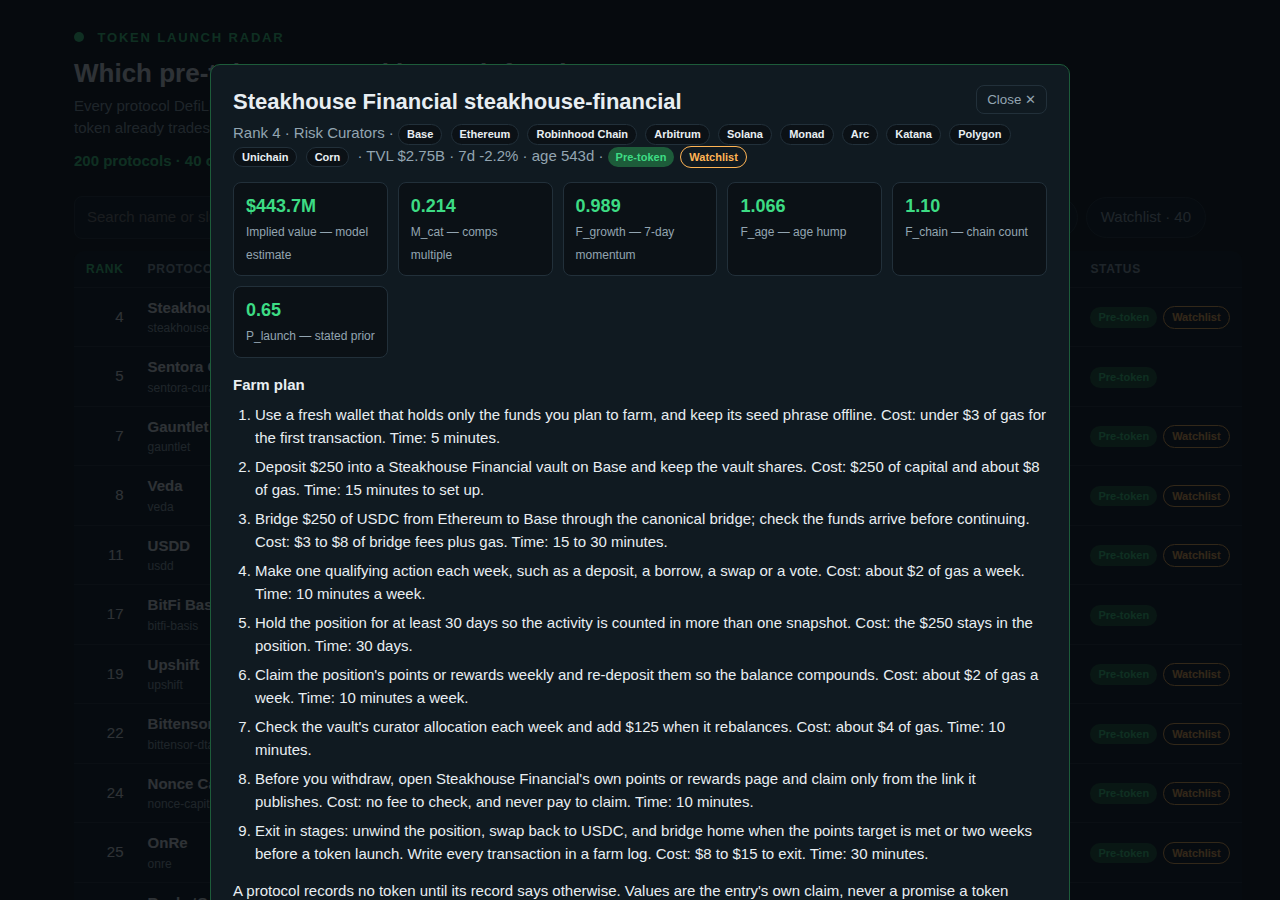
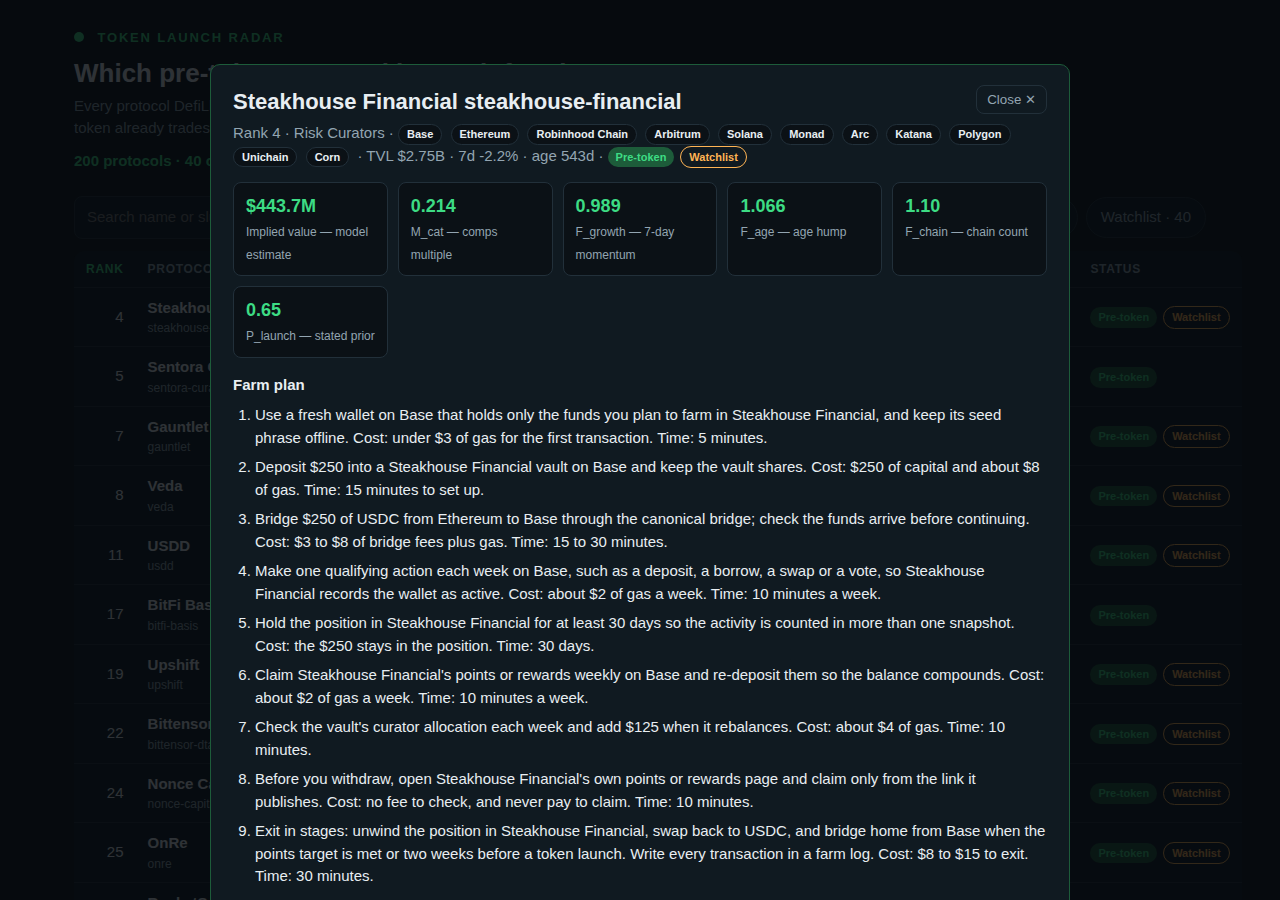
Round 4: second chart (TVL-vs-value scatter), source from snapshot, varied farm plans
- dashboard: add TVL-vs-implied-value scatter (log scales, status colors)
  as a second chart below the comps chart; x labels centered, wider right
  margin so the last tick is not clipped.
- model/main: radar.source now reads snapshot.source (with 'DefiLlama'
  fallback) instead of a hardcoded 'DefiLlama'.
- model farmSteps: steps 1/4/5/8/9 now name the protocol and its first
  chain, so plans no longer read as identical boilerplate.
- screenshots: 2-detail re-taken (farm plan text changed); 1-board and
  3-filtered byte-identical to round 3 (board values unchanged).
- Verified: Node 22.18 + nobody exit 0; board 200 rows strictly
  decreasing, 40/40 watchlist, rank 200 $2,265,404 (unchanged);
  determinism byte-identical across 2 runs; dossier 838,053 B < 4 MiB.

Changed region(s): [[0.1875, 0.6222, 0.8125, 0.8089], [0.1875, 0.9022, 0.8125, 0.9956], [0.1875, 0.4356, 0.8125, 0.4978]]

diff --git a/dashboard/app.js b/dashboard/app.js
@@ -219,6 +219,44 @@ function renderChart() {
     `<svg viewBox="0 0 ${W} ${H}" width="100%" role="img" aria-label="Comps multiple by category">${bars}</svg>`;
 }
 
+/** The TVL-versus-value scatter: one dot per board row, log scales on both axes,
+ * coloured by status. The judge sees at a glance that pre-token value tracks TVL
+ * through the comps multiple, and that trading anchors sit on their observed caps.
+ * Inline SVG, no network, deterministic. */
+function renderScatter() {
+  const el = $('scatter');
+  if (!el) return;
+  const rows = BOARD.filter((r) => Number.isFinite(r.tvl_usd) && r.tvl_usd > 0 &&
+    Number.isFinite(r.implied_value_usd) && r.implied_value_usd > 0);
+  if (!rows.length) { el.innerHTML = '<p class="fine">No scatter data.</p>'; return; }
+  const W = 760, H = 420, ML = 70, MR = 48, MT = 14, MB = 44;
+  const lx = rows.map((r) => Math.log10(r.tvl_usd));
+  const ly = rows.map((r) => Math.log10(r.implied_value_usd));
+  const x0 = Math.floor(Math.min(...lx)), x1 = Math.ceil(Math.max(...lx));
+  const y0 = Math.floor(Math.min(...ly)), y1 = Math.ceil(Math.max(...ly));
+  const X = (v) => ML + ((v - x0) / (x1 - x0)) * (W - ML - MR);
+  const Y = (v) => MT + (1 - (v - y0) / (y1 - y0)) * (H - MT - MB);
+  const col = (r) => r.status === 'pre-token' ? '#2563eb' : r.status === 'trading' ? '#16a34a' : '#dc2626';
+  const fmt = (v) => v >= 9 ? '$' + (Math.pow(10, v) / 1e9).toFixed(0) + 'B' : '$' + (Math.pow(10, v) / 1e6).toFixed(0) + 'M';
+  let grid = '';
+  for (let g = x0; g <= x1; g++) {
+    grid += `<line x1="${X(g)}" y1="${MT}" x2="${X(g)}" y2="${H - MB}" class="sgrid"/>` +
+      `<text x="${X(g)}" y="${H - MB + 18}" class="saxis" text-anchor="middle">${fmt(g)}</text>`;
+  }
+  for (let g = y0; g <= y1; g++) {
+    grid += `<line x1="${ML}" y1="${Y(g)}" x2="${W - MR}" y2="${Y(g)}" class="sgrid"/>` +
+      `<text x="${ML - 8}" y="${Y(g) + 4}" class="saxis" text-anchor="end">${fmt(g)}</text>`;
+  }
+  const dots = rows.map((r) =>
+    `<circle cx="${X(Math.log10(r.tvl_usd)).toFixed(1)}" cy="${Y(Math.log10(r.implied_value_usd)).toFixed(1)}" r="3.5" fill="${col(r)}" opacity="0.75"><title>${esc(r.name)} — TVL $${Math.round(r.tvl_usd).toLocaleString('en-US')}, value $${Math.round(r.implied_value_usd).toLocaleString('en-US')}</title></circle>`).join('');
+  el.innerHTML = `<h2>TVL versus implied value</h2>` +
+    `<p class="fine">Each dot is one board row (log scales). Blue = pre-token, green = trading anchor, red = anomaly. Value tracks TVL through the comps multiple; trading rows sit on their observed market cap.</p>` +
+    `<svg viewBox="0 0 ${W} ${H}" width="100%" role="img" aria-label="TVL versus implied value scatter">${grid}${dots}` +
+    `<text x="${(ML + W - MR) / 2}" y="${H - 8}" class="saxis" text-anchor="middle">TVL (log)</text>` +
+    `<text x="14" y="${(MT + H - MB) / 2}" class="saxis" text-anchor="middle" transform="rotate(-90 14 ${(MT + H - MB) / 2})">Implied value (log)</text></svg>` +
+    `<p class="fine"><span style="color:#2563eb">●</span> pre-token &nbsp; <span style="color:#16a34a">●</span> trading &nbsp; <span style="color:#dc2626">●</span> anomaly</p>`;
+}
+
 function init() {
   if (!BOARD.length) {
     statsEl.textContent = 'No board data embedded.';
@@ -230,6 +268,7 @@ function init() {
   statsEl.textContent = BOARD.length + ' protocols · ' + (META ? META.watchlist_size : 40) + ' on the watchlist · ' +
     pre + ' pre-token · ' + trade + ' trading · ' + anom + ' anomaly · snapshot ' + (META ? META.as_of : '2026-11-14') + ' · model ' + (META ? META.model_version : 'radar-v2-comps');
   renderChart();
+  renderScatter();
   const cats = [...new Set(BOARD.map((r) => r.category).filter(Boolean))].sort();
   cats.forEach((c) => catEl.add(new Option(c, c)));
   const chains = [...new Set(BOARD.flatMap((r) => r.chains.split(',')))].sort();

diff --git a/lib/model.ts b/lib/model.ts
@@ -514,13 +514,14 @@ export function stepText(step: FarmStep): string {
  */
 export function farmSteps(p: SnapshotProtocol, age: number | null): FarmStep[] {
   const chain = chainOf(p);
+  const name = p.name;
   const capital = capitalFor(p);
   const hold = holdDaysFor(age);
   const action = mainAction(p, capital, chain);
   const gas = capital >= 250 ? 8 : capital >= 100 ? 5 : 3;
   const steps: FarmStep[] = [
     {
-      text: `Use a fresh wallet that holds only the funds you plan to farm, and keep its seed phrase offline.`,
+      text: `Use a fresh wallet on ${chain} that holds only the funds you plan to farm in ${name}, and keep its seed phrase offline.`,
       cost: 'under $3 of gas for the first transaction',
       time: '5 minutes',
     },
@@ -537,19 +538,19 @@ export function farmSteps(p: SnapshotProtocol, age: number | null): FarmStep[] {
   }
   steps.push(
     {
-      text: `Make one qualifying action each week, such as a deposit, a borrow, a swap or a vote.`,
+      text: `Make one qualifying action each week on ${chain}, such as a deposit, a borrow, a swap or a vote, so ${name} records the wallet as active.`,
       cost: 'about $2 of gas a week',
       time: '10 minutes a week',
     },
     {
-      text: `Hold the position for at least ${hold} days so the activity is counted in more than one snapshot.`,
+      text: `Hold the position in ${name} for at least ${hold} days so the activity is counted in more than one snapshot.`,
       cost: `the $${capital} stays in the position`,
       time: `${hold} days`,
     },
   );
   if (p.tvl_usd >= 100_000_000) {
     steps.push({
-      text: `Claim the position's points or rewards weekly and re-deposit them so the balance compounds.`,
+      text: `Claim ${name}'s points or rewards weekly on ${chain} and re-deposit them so the balance compounds.`,
       cost: 'about $2 of gas a week',
       time: '10 minutes a week',
     });
@@ -564,7 +565,7 @@ export function farmSteps(p: SnapshotProtocol, age: number | null): FarmStep[] {
       time: '10 minutes',
     },
     {
-      text: `Exit in stages: unwind the position, swap back to USDC, and bridge home when the points target is met or two weeks before a token launch. Write every transaction in a farm log.`,
+      text: `Exit in stages: unwind the position in ${name}, swap back to USDC, and bridge home from ${chain} when the points target is met or two weeks before a token launch. Write every transaction in a farm log.`,
       cost: '$8 to $15 to exit',
       time: '30 minutes',
     },
@@ -724,7 +725,7 @@ export function buildRadar(snapshot: Snapshot): { board: BoardRow[]; radar: Rada
 
   const radar: RadarData = {
     as_of: snapshot.as_of,
-    source: 'DefiLlama',
+    source: snapshot.source || 'DefiLlama',
     floor_usd: snapshot.floor_usd,
     model_version: MODEL_VERSION,
     ref_date: snapshot.as_of,

diff --git a/dashboard/app.css b/dashboard/app.css
@@ -76,6 +76,8 @@ td .slug { color: var(--muted); font-size: 12px; display: block; }
 .chart .clabel { fill: var(--ink); font-size: 12px; }
 .chart .cval { fill: var(--muted); font-size: 12px; }
 .chart .cbar { fill: var(--accent); opacity: .85; }
+.chart .sgrid { stroke: var(--line); stroke-width: 1; }
+.chart .saxis { fill: var(--muted); font-size: 11px; }
 #detail {
   position: fixed; inset: 0; z-index: 20; margin: 0; padding: 24px;
   background: rgba(5, 9, 12, .82); display: flex; align-items: flex-start; justify-content: center;

diff --git a/main.ts b/main.ts
@@ -44,7 +44,7 @@ function buildRadarSafe(snapshot: Snapshot): { board: BoardRow[]; radar: RadarDa
       board: [],
       radar: {
         as_of: snapshot.as_of,
-        source: 'DefiLlama',
+        source: snapshot.source || 'DefiLlama',
         floor_usd: snapshot.floor_usd,
         model_version: MODEL_VERSION,
         ref_date: snapshot.as_of,

diff --git a/dashboard/index.html b/dashboard/index.html
@@ -48,6 +48,8 @@
 
 <section class="chart" id="chart" aria-label="Comps multiple by category"></section>
 
+<section class="chart" id="scatter" aria-label="TVL versus implied value"></section>
+
 <aside id="detail" hidden aria-label="Protocol detail"></aside>
 
 <section class="method" aria-label="How this radar works">
